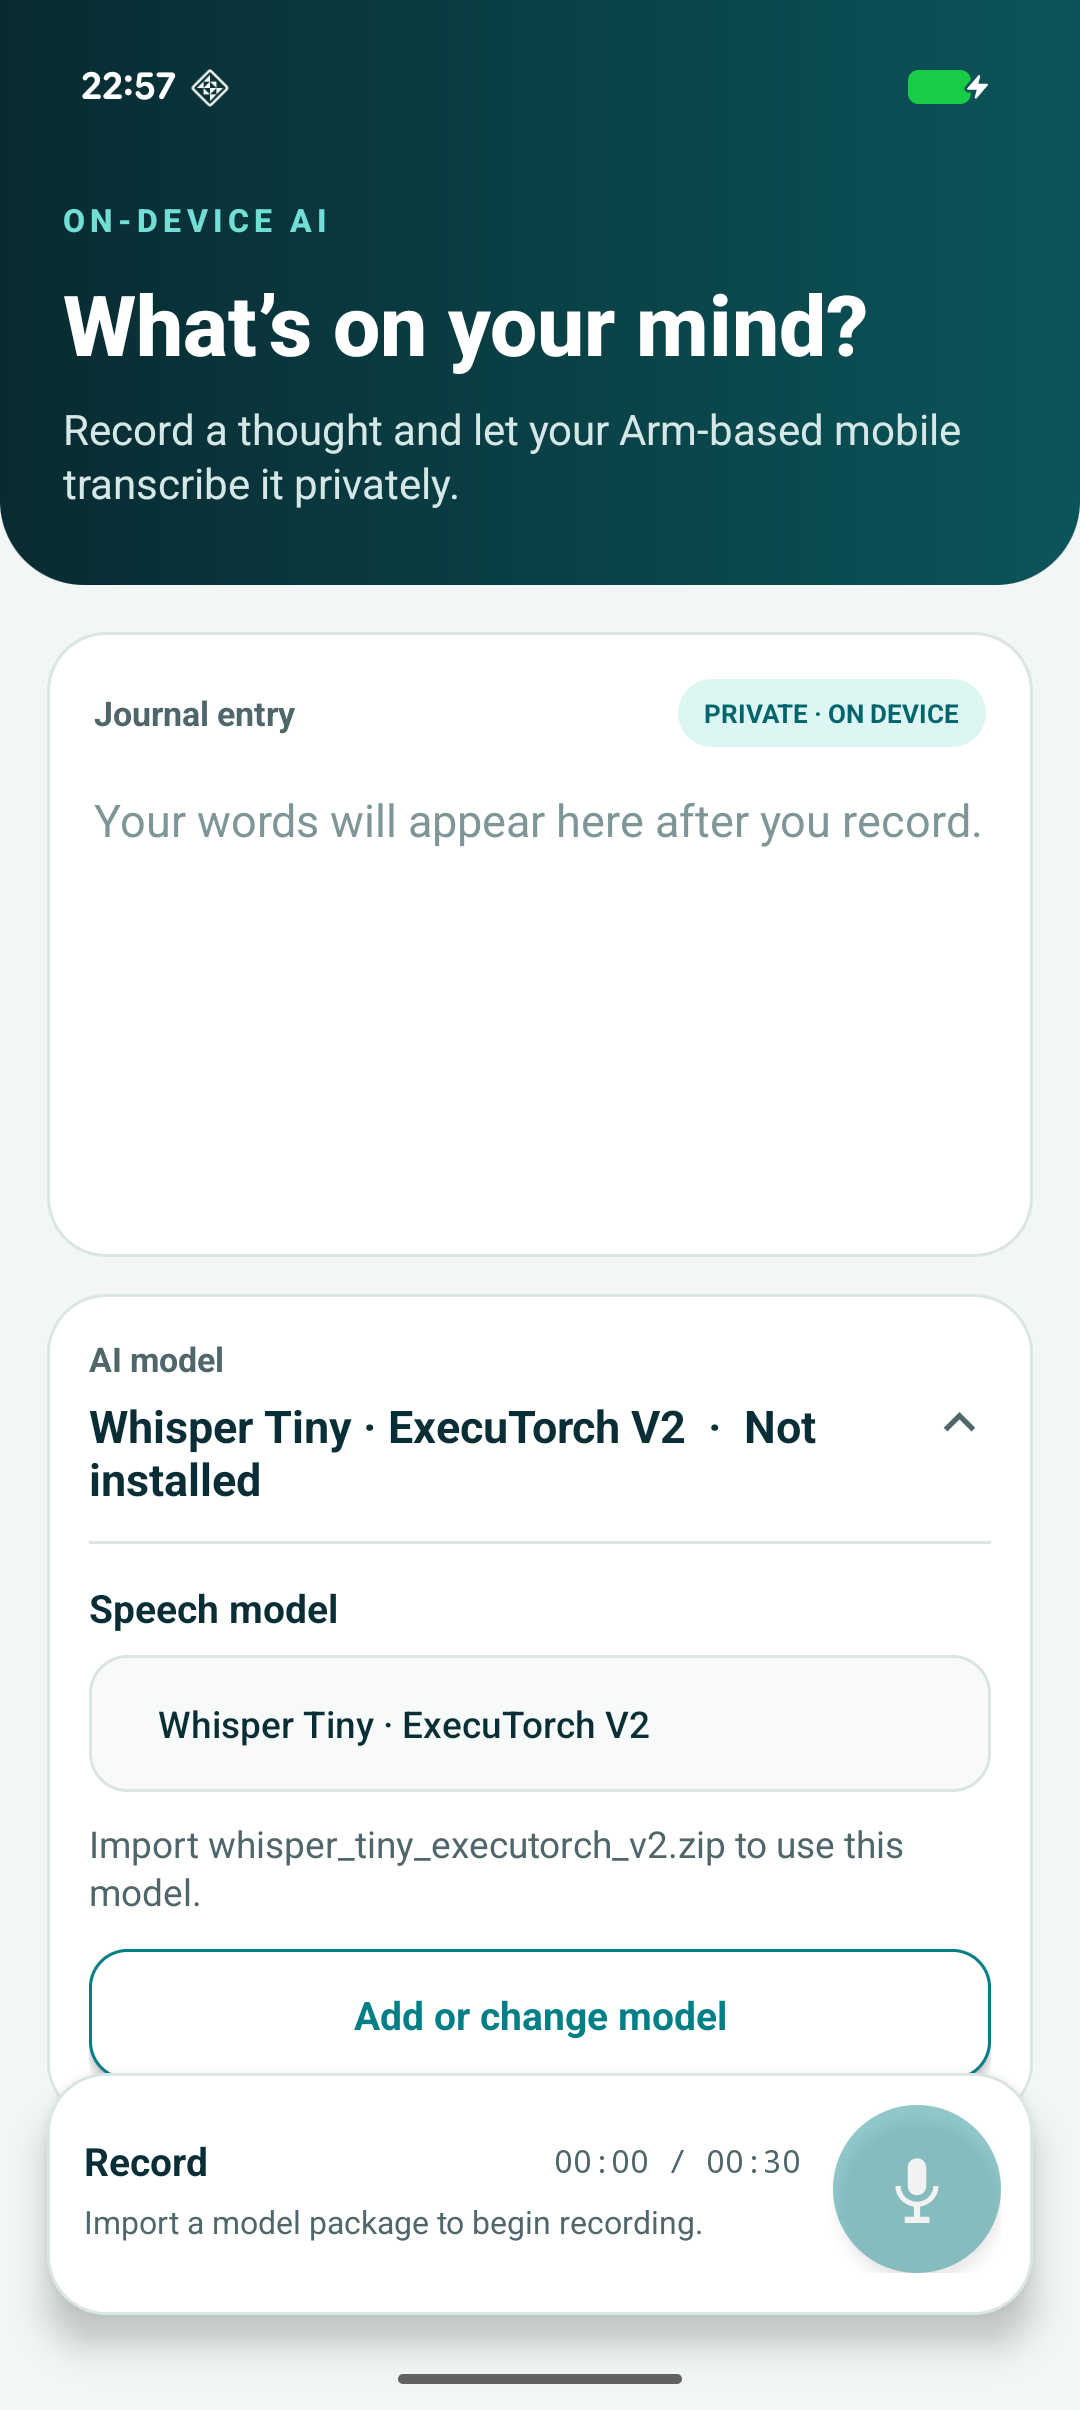
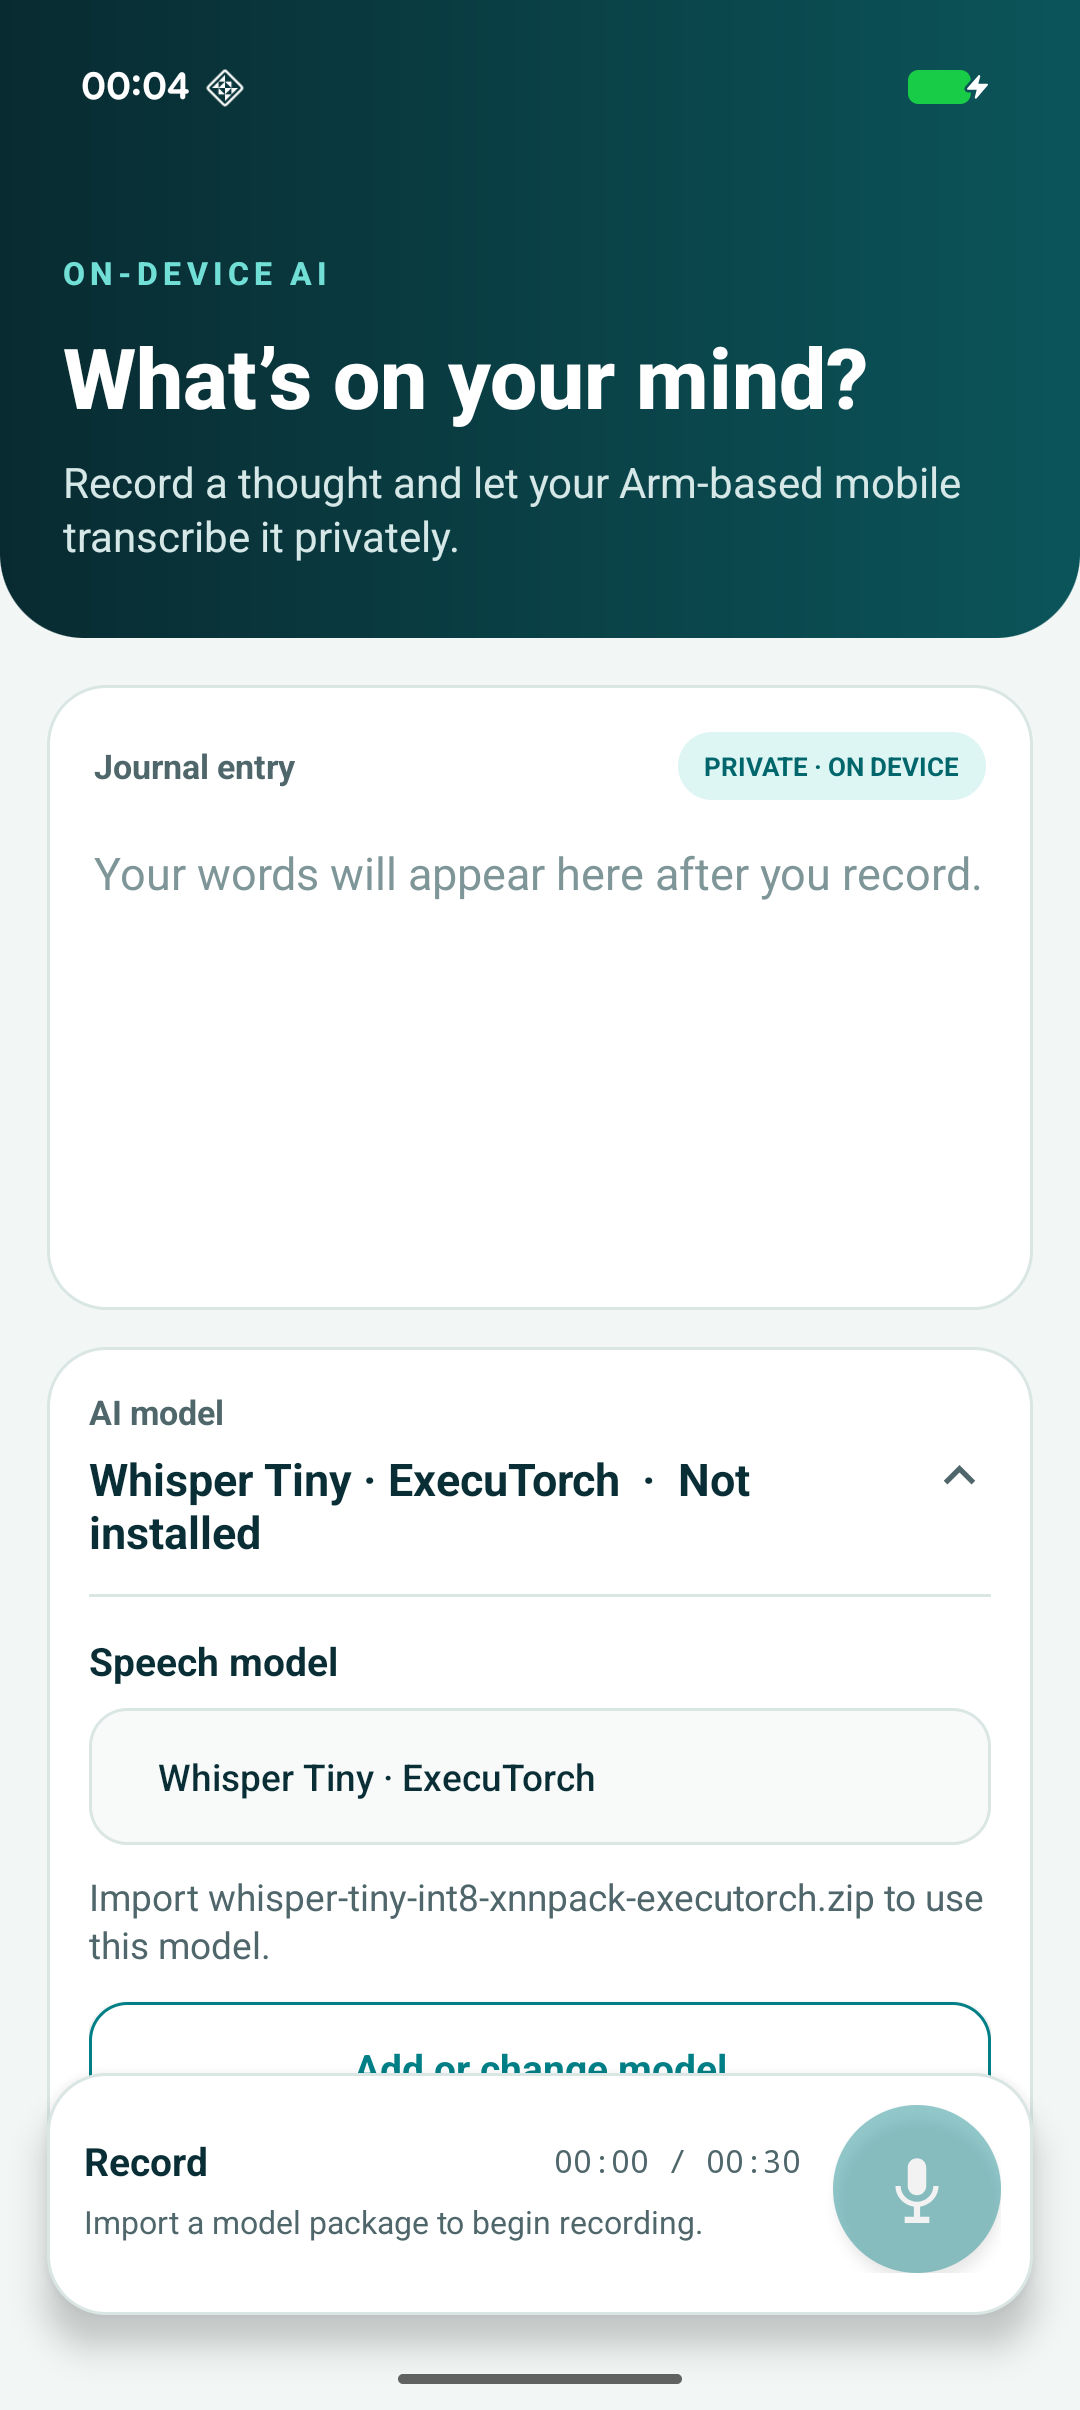
update

diff --git a/download_model.py b/download_model.py
@@ -4,10 +4,29 @@ import argparse
 from pathlib import Path
 from zipfile import ZIP_STORED, ZipFile
 
-from huggingface_hub import snapshot_download
+from huggingface_hub import hf_hub_download, snapshot_download
 
 
-PACKAGE_FILES = (
+LITERT_REPOS = {
+    "Arm/whisper-base-int8-litert",
+    "Arm/whisper-medium-int8-litert",
+    "Arm/whisper-large-v3-int8-litert",
+}
+
+EXECUTORCH_REPOS = {
+    "Arm/whisper-tiny-int8-xnnpack-executorch": {
+        "model": "whisper-tiny-int8-executorch.pte",
+        "preprocessor": "whisper-tiny-preprocessor-int8-executorch.pte",
+        "tokenizer_repo": "openai/whisper-tiny",
+    },
+    "Arm/whisper-small-int8-xnnpack-executorch": {
+        "model": "whisper-small-int8-executorch.pte",
+        "preprocessor": "whisper-small-preprocessor-int8-executorch.pte",
+        "tokenizer_repo": "openai/whisper-small",
+    },
+}
+
+LITERT_PACKAGE_FILES = (
     "*int8*.tflite",
     "tokenizer.json",
     "tokenizer_config.json",
@@ -19,23 +38,19 @@ PACKAGE_FILES = (
     "metadata.yaml",
 )
 
+PACKAGE_METADATA = (
+    "config.yaml",
+    "metadata.yaml",
+)
 
-def main() -> None:
-    parser = argparse.ArgumentParser(
-        description="Download and package a LiteRT Whisper model for Whisper Journal."
-    )
-    parser.add_argument("--repo-id", required=True, help="Hugging Face repository ID")
-    parser.add_argument("--output-dir", default="models", help="Download/package directory")
-    args = parser.parse_args()
 
-    output_dir = Path(args.output_dir)
-    snapshot_dir = output_dir / args.repo_id.replace("/", "__")
-    snapshot_download(
-        repo_id=args.repo_id,
-        local_dir=snapshot_dir,
-        allow_patterns=list(PACKAGE_FILES),
-    )
+def package_files(archive: Path, files: list[tuple[Path, str]]) -> None:
+    with ZipFile(archive, "w", compression=ZIP_STORED, allowZip64=True) as package:
+        for path, archive_name in files:
+            package.write(path, archive_name)
 
+
+def collect_litert_package(snapshot_dir: Path) -> list[tuple[Path, str]]:
     tflite_files = sorted(snapshot_dir.rglob("*.tflite"))
     tokenizer_files = sorted(snapshot_dir.rglob("tokenizer.json"))
     if len(tflite_files) != 1:
@@ -47,17 +62,87 @@ def main() -> None:
             f"Expected one tokenizer.json under {snapshot_dir}, found {len(tokenizer_files)}"
         )
 
-    archive = output_dir / f"{args.repo_id.split('/')[-1]}.zip"
-    files = [
-        path
-        for path in snapshot_dir.rglob("*")
+    return [
+        (path, path.name)
+        for path in sorted(snapshot_dir.rglob("*"))
         if path.is_file()
         and ".cache" not in path.relative_to(snapshot_dir).parts
         and path.name != ".gitignore"
     ]
-    with ZipFile(archive, "w", compression=ZIP_STORED, allowZip64=True) as package:
-        for path in sorted(files):
-            package.write(path, path.name)
+
+
+def collect_executorch_package(
+    repo_id: str,
+    snapshot_dir: Path,
+    output_dir: Path,
+) -> list[tuple[Path, str]]:
+    package = EXECUTORCH_REPOS[repo_id]
+    model = snapshot_dir / package["model"]
+    preprocessor = snapshot_dir / package["preprocessor"]
+    if not model.is_file():
+        raise SystemExit(f"Missing ExecuTorch model: {model}")
+    if not preprocessor.is_file():
+        raise SystemExit(f"Missing ExecuTorch preprocessor: {preprocessor}")
+
+    tokenizer_repo = package["tokenizer_repo"]
+    tokenizer_dir = output_dir / tokenizer_repo.replace("/", "__")
+    tokenizer = Path(
+        hf_hub_download(
+            repo_id=tokenizer_repo,
+            filename="tokenizer.json",
+            local_dir=tokenizer_dir,
+        )
+    )
+
+    files = [
+        (model, model.name),
+        (preprocessor, "whisper_preprocessor.pte"),
+        (tokenizer, "tokenizer.json"),
+    ]
+    for name in PACKAGE_METADATA:
+        path = snapshot_dir / name
+        if path.is_file():
+            files.append((path, name))
+    return files
+
+
+def main() -> None:
+    parser = argparse.ArgumentParser(
+        description="Download and package a Whisper model for Whisper Journal."
+    )
+    parser.add_argument("--repo-id", required=True, help="Hugging Face repository ID")
+    parser.add_argument("--output-dir", default="models", help="Download/package directory")
+    args = parser.parse_args()
+
+    supported_repos = LITERT_REPOS | set(EXECUTORCH_REPOS)
+    if args.repo_id not in supported_repos:
+        supported = "\n  ".join(sorted(supported_repos))
+        raise SystemExit(f"Unsupported repository ID. Choose one of:\n  {supported}")
+
+    output_dir = Path(args.output_dir)
+    snapshot_dir = output_dir / args.repo_id.replace("/", "__")
+    if args.repo_id in LITERT_REPOS:
+        snapshot_download(
+            repo_id=args.repo_id,
+            local_dir=snapshot_dir,
+            allow_patterns=list(LITERT_PACKAGE_FILES),
+        )
+        files = collect_litert_package(snapshot_dir)
+    else:
+        package = EXECUTORCH_REPOS[args.repo_id]
+        snapshot_download(
+            repo_id=args.repo_id,
+            local_dir=snapshot_dir,
+            allow_patterns=[
+                package["model"],
+                package["preprocessor"],
+                *PACKAGE_METADATA,
+            ],
+        )
+        files = collect_executorch_package(args.repo_id, snapshot_dir, output_dir)
+
+    archive = output_dir / f"{args.repo_id.split('/')[-1]}.zip"
+    package_files(archive, files)
 
     print(f"Model directory: {snapshot_dir.resolve()}")
     print(f"Android package: {archive.resolve()}")

diff --git a/app/src/main/java/org/arm/learningpath/whisper/ModelRegistry.java b/app/src/main/java/org/arm/learningpath/whisper/ModelRegistry.java
@@ -8,20 +8,20 @@ public final class ModelRegistry {
     private static final List<WhisperModelDescriptor> MODELS = Collections.unmodifiableList(
             Arrays.asList(
                     new WhisperModelDescriptor(
-                            "whisper-tiny-executorch-v2",
-                            "Whisper Tiny · ExecuTorch V2",
+                            "whisper-tiny-int8-xnnpack-executorch",
+                            "Whisper Tiny · ExecuTorch",
                             AdapterRegistry.EXECUTORCH_ID,
-                            "",
-                            "whisper_tiny_executorch_v2.zip",
+                            "Arm/whisper-tiny-int8-xnnpack-executorch",
+                            "whisper-tiny-int8-xnnpack-executorch.zip",
                             80,
                             51865
                     ),
                     new WhisperModelDescriptor(
-                            "whisper-small-executorch-v2",
-                            "Whisper Small · ExecuTorch V2",
+                            "whisper-small-int8-xnnpack-executorch",
+                            "Whisper Small · ExecuTorch",
                             AdapterRegistry.EXECUTORCH_ID,
-                            "",
-                            "whisper_small_executorch_v2.zip",
+                            "Arm/whisper-small-int8-xnnpack-executorch",
+                            "whisper-small-int8-xnnpack-executorch.zip",
                             80,
                             51865
                     ),

diff --git a/app/src/main/java/org/arm/learningpath/whisper/MainActivity.java b/app/src/main/java/org/arm/learningpath/whisper/MainActivity.java
@@ -49,6 +49,10 @@ public final class MainActivity extends Activity {
     private static final long MAX_RECORDING_MILLIS = 30_000L;
     private static final String PREFERENCES_NAME = "whisper-journal";
     private static final String PREF_SELECTED_MODEL = "selected-model";
+    private static final String LEGACY_TINY_MODEL_ID = "whisper-tiny-executorch-v2";
+    private static final String LEGACY_SMALL_MODEL_ID = "whisper-small-executorch-v2";
+    private static final String TINY_MODEL_ID = "whisper-tiny-int8-xnnpack-executorch";
+    private static final String SMALL_MODEL_ID = "whisper-small-int8-xnnpack-executorch";
 
     private final ExecutorService executor = Executors.newSingleThreadExecutor();
     private final Handler timerHandler = new Handler(Looper.getMainLooper());
@@ -178,6 +182,13 @@ public final class MainActivity extends Activity {
                 PREF_SELECTED_MODEL,
                 models.get(0).id()
         );
+        if (LEGACY_TINY_MODEL_ID.equals(savedModelId)) {
+            savedModelId = TINY_MODEL_ID;
+            preferences.edit().putString(PREF_SELECTED_MODEL, savedModelId).apply();
+        } else if (LEGACY_SMALL_MODEL_ID.equals(savedModelId)) {
+            savedModelId = SMALL_MODEL_ID;
+            preferences.edit().putString(PREF_SELECTED_MODEL, savedModelId).apply();
+        }
         int selectedIndex = 0;
         for (int index = 0; index < models.size(); index++) {
             if (models.get(index).id().equals(savedModelId)) {

diff --git a/app/src/main/java/org/arm/learningpath/whisper/ExecuTorchWhisperAdapter.java b/app/src/main/java/org/arm/learningpath/whisper/ExecuTorchWhisperAdapter.java
@@ -13,7 +13,7 @@ import java.util.HashSet;
 import java.util.List;
 import java.util.Set;
 
-/** Adapter for the optimized Tiny and Small V2 ExecuTorch packages. */
+/** Adapter for the optimized Tiny and Small ExecuTorch packages. */
 public final class ExecuTorchWhisperAdapter implements SpeechToTextAdapter {
     private static final String TAG = "WhisperExecuTorch";
     private static final int DECODER_START_TOKEN_ID = 50258;
@@ -54,7 +54,7 @@ public final class ExecuTorchWhisperAdapter implements SpeechToTextAdapter {
             File modelDirectory
     ) throws Exception {
         if (descriptor == null || !id().equals(descriptor.adapterId())) {
-            throw new IllegalArgumentException("This package is not an ExecuTorch V2 model");
+            throw new IllegalArgumentException("This package is not an ExecuTorch model");
         }
         File modelFile = requiredFile(modelDirectory, "model.pte");
         File preprocessorFile = requiredFile(modelDirectory, "whisper_preprocessor.pte");

diff --git a/app/src/main/java/org/arm/learningpath/whisper/AdapterRegistry.java b/app/src/main/java/org/arm/learningpath/whisper/AdapterRegistry.java
@@ -5,7 +5,7 @@ import java.util.LinkedHashMap;
 import java.util.Map;
 
 public final class AdapterRegistry implements AutoCloseable {
-    public static final String EXECUTORCH_ID = "executorch-v2";
+    public static final String EXECUTORCH_ID = "executorch";
     public static final String LITERT_ID = "litert";
 
     private final Map<String, SpeechToTextAdapter> adapters;
@@ -15,7 +15,7 @@ public final class AdapterRegistry implements AutoCloseable {
             SpeechToTextAdapter liteRtAdapter
     ) {
         if (execuTorchAdapter == null || !EXECUTORCH_ID.equals(execuTorchAdapter.id())) {
-            throw new IllegalArgumentException("Expected the ExecuTorch V2 adapter");
+            throw new IllegalArgumentException("Expected the ExecuTorch adapter");
         }
         if (liteRtAdapter == null || !LITERT_ID.equals(liteRtAdapter.id())) {
             throw new IllegalArgumentException("Expected the LiteRT adapter");

diff --git a/app/src/main/java/org/arm/learningpath/whisper/ModelPackageImporter.java b/app/src/main/java/org/arm/learningpath/whisper/ModelPackageImporter.java
@@ -445,11 +445,11 @@ public final class ModelPackageImporter {
     }
 
     private static String storageKey(WhisperModelDescriptor descriptor) {
-        // Keep the original V2 locations so an app upgrade can reuse imported models.
-        if ("whisper-tiny-executorch-v2".equals(descriptor.id())) {
+        // Keep the original locations so an app upgrade can reuse imported models.
+        if ("whisper-tiny-int8-xnnpack-executorch".equals(descriptor.id())) {
             return "tiny";
         }
-        if ("whisper-small-executorch-v2".equals(descriptor.id())) {
+        if ("whisper-small-int8-xnnpack-executorch".equals(descriptor.id())) {
             return "small";
         }
         return descriptor.id();

diff --git a/README.md b/README.md
@@ -6,21 +6,19 @@ Whisper Journal is a private, on-device speech-to-text sample for Arm64 Android 
 
 <p align="center">
   <img src="images/whisper-startup.png" width="31%" alt="Whisper Journal before the model archive has been imported">
-  <img src="images/whisper-model-ready.png" width="31%" alt="Whisper Journal ready to generate an image from a prompt and seed">
-  <img src="images/whisper-generated.png" width="31%" alt="Whisper Journal displaying an image generated locally on Android">
+  <img src="images/whisper-model-ready.png" width="31%" alt="Whisper Journal with a speech model ready to record">
+  <img src="images/whisper-generated.png" width="31%" alt="Whisper Journal displaying a transcript generated locally on Android">
 </p>
 
-## Supported model packages
+## Registered model packages
 
-| Model | Runtime adapter | Package |
-| --- | --- | --- |
-| Whisper Tiny | ExecuTorch V2 | `whisper_tiny_executorch_v2.zip` |
-| Whisper Small | ExecuTorch V2 | `whisper_small_executorch_v2.zip` |
-| [Whisper Base INT8](https://huggingface.co/Arm/whisper-base-int8-litert) | LiteRT | `whisper-base-int8-litert.zip` |
-| [Whisper Medium INT8](https://huggingface.co/Arm/whisper-medium-int8-litert) | LiteRT | `whisper-medium-int8-litert.zip` |
-| [Whisper Large V3 INT8](https://huggingface.co/Arm/whisper-large-v3-int8-litert) | LiteRT | `whisper-large-v3-int8-litert.zip` |
-
-The model weights are not included in this repository. The LiteRT Base package has been validated end to end on a physical Arm64 Android device. Medium, Large V3, and the supplied ExecuTorch V2 packages should be verified on the intended target device before publication.
+| Model | Runtime adapter | Hugging Face repository ID | Android package |
+| --- | --- | --- | --- |
+| Whisper Tiny INT8 | ExecuTorch | [`Arm/whisper-tiny-int8-xnnpack-executorch`](https://huggingface.co/Arm/whisper-tiny-int8-xnnpack-executorch) | `whisper-tiny-int8-xnnpack-executorch.zip` |
+| Whisper Small INT8 | ExecuTorch | [`Arm/whisper-small-int8-xnnpack-executorch`](https://huggingface.co/Arm/whisper-small-int8-xnnpack-executorch) | `whisper-small-int8-xnnpack-executorch.zip` |
+| Whisper Base INT8 | LiteRT | [`Arm/whisper-base-int8-litert`](https://huggingface.co/Arm/whisper-base-int8-litert) | `whisper-base-int8-litert.zip` |
+| Whisper Medium INT8 | LiteRT | [`Arm/whisper-medium-int8-litert`](https://huggingface.co/Arm/whisper-medium-int8-litert) | `whisper-medium-int8-litert.zip` |
+| Whisper Large V3 INT8 | LiteRT | [`Arm/whisper-large-v3-int8-litert`](https://huggingface.co/Arm/whisper-large-v3-int8-litert) | `whisper-large-v3-int8-litert.zip` |
 
 ## Build the application
 
@@ -28,22 +26,22 @@ Open this directory in Android Studio, allow Gradle to synchronize, connect an A
 
 The project uses Java 17, ExecuTorch 1.3.1, and LiteRT 2.1.6.
 
-## Package a public LiteRT model
+## Package a model from Hugging Face
 
-Install the Hugging Face Hub client and run the included downloader with one of the LiteRT repository IDs from the table:
+Install the Hugging Face Hub client and run the included downloader with any repository ID from the table:
 
 ```console
 python -m pip install huggingface_hub
-python download_model.py --repo-id Arm/whisper-base-int8-litert
+python download_model.py --repo-id Arm/whisper-tiny-int8-xnnpack-executorch
 ```
 
-The script downloads only the INT8 model and its tokenizer/configuration files, then creates `models/whisper-base-int8-litert.zip`. Copy that ZIP to the Android device.
+For ExecuTorch, the script downloads the INT8 model and audio preprocessor and adds `tokenizer.json` from the matching OpenAI Whisper repository. For LiteRT, it downloads the INT8 model and its tokenizer and configuration files. It creates the Android ZIP under `models/`; copy that ZIP to the device.
 
 ## Transcribe a journal entry
 
-1. Expand **Model settings** and select the matching model.
-2. Tap **Import model package** and choose its ZIP file.
-3. Tap **Record**, speak for up to 30 seconds, and tap **Stop**.
+1. Expand **AI model** and select the matching model.
+2. Tap **Add or change model** and choose its ZIP file.
+3. Tap **Record**, speak for up to 30 seconds, and tap **Stop recording**.
 4. Copy, save, clear, or record the entry again.
 
 Audio and transcripts remain on the device. The current adapters perform English transcription and keep only one model runtime loaded at a time.
@@ -51,8 +49,8 @@ Audio and transcripts remain on the device. The current adapters perform English
 ## Application structure
 
 - `MainActivity.java` owns the common journaling interface and background work.
-- `ModelRegistry.java` describes the five compatible model packages.
+- `ModelRegistry.java` describes the five registered model packages.
 - `AdapterRegistry.java` maps each descriptor to the ExecuTorch or LiteRT adapter.
-- `ExecuTorchWhisperAdapter.java` runs the supplied Tiny and Small V2 packages.
-- `litert/LiteRtWhisperAdapter.java` runs the Base, Medium, and Large V3 LiteRT exports.
+- `ExecuTorchWhisperAdapter.java` runs the Tiny and Small ExecuTorch packages.
+- `litert/LiteRtWhisperAdapter.java` provides profiles for the Base, Medium, and Large V3 LiteRT exports.
 - `ModelPackageImporter.java` validates and installs selected model ZIPs in private app storage.
